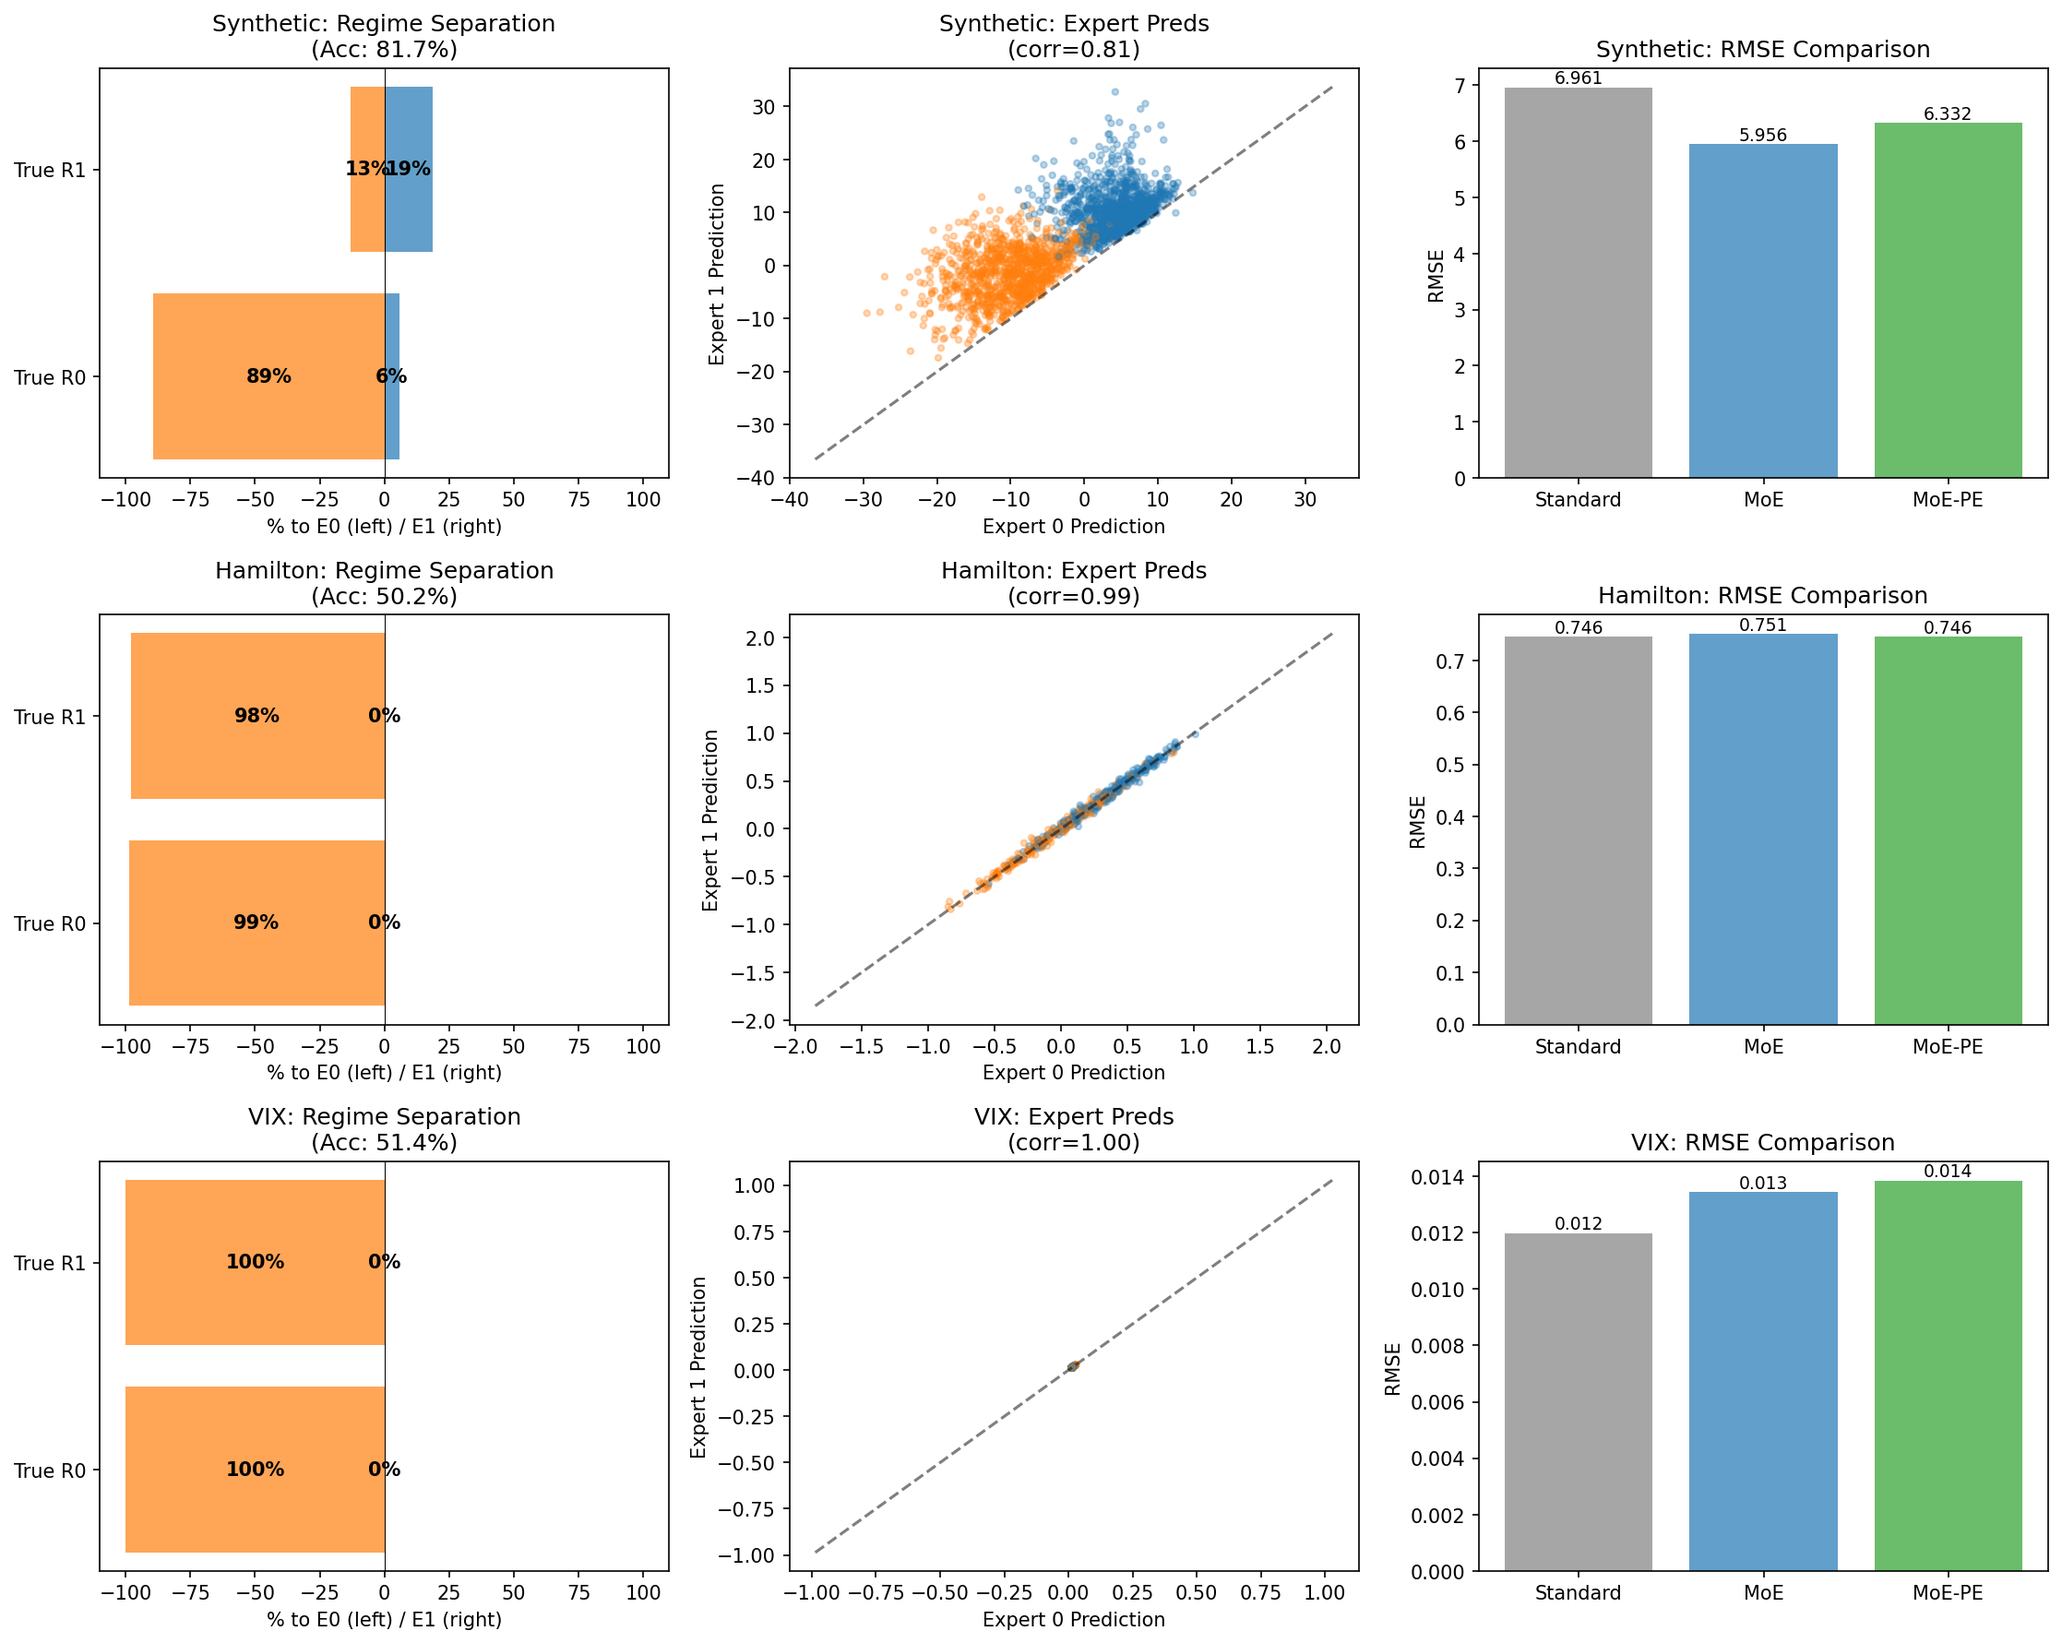
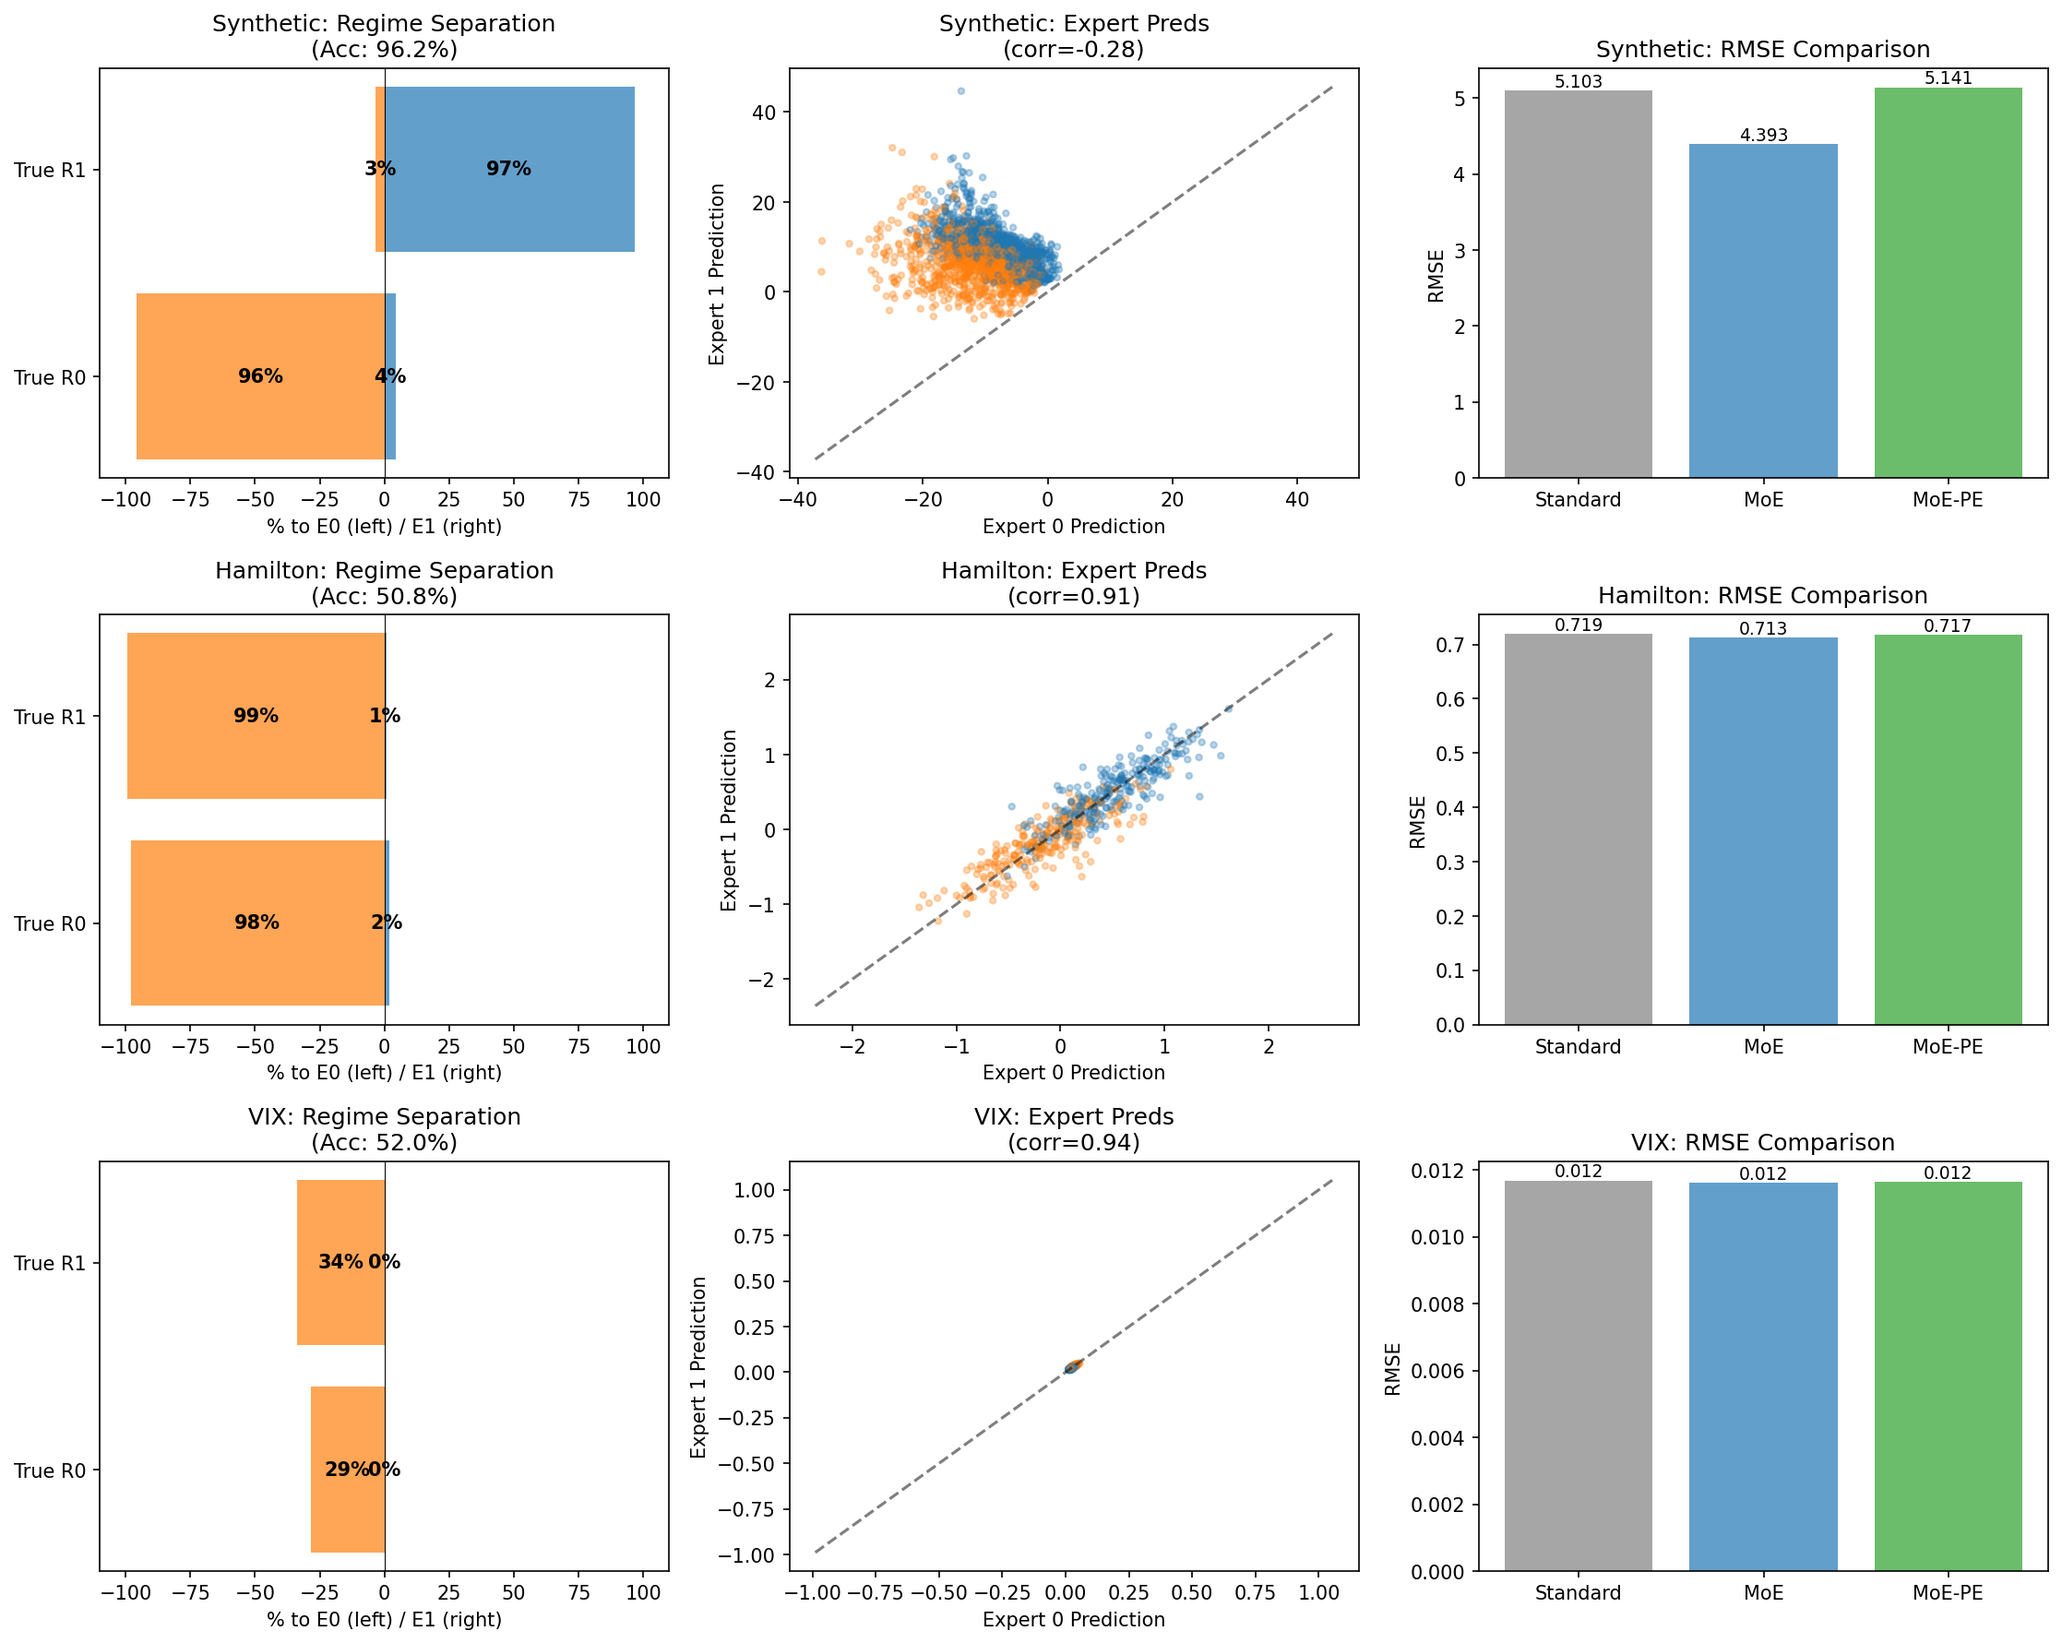
docs: Update README with 200-trial benchmark results
- Update benchmark results with 200 Optuna trials
- Add expert differentiation analysis (correlation, regime accuracy)
- Add selected hyperparameters section showing per-expert tree structures
- Update visualization to benchmark_results.png
- Add markdown output option to benchmark.py

Key findings:
- MoE (shared): Synthetic +13.9%, Expert Corr -0.28, Regime Acc 96.2%
- MoE-PE selects different tree structures but shared MoE achieves better separation

diff --git a/examples/benchmark.py b/examples/benchmark.py
@@ -556,6 +556,57 @@ def generate_markdown_report(all_results: dict, config: BenchmarkConfig) -> str:
     lines.append("- **Regime Acc**: Classification accuracy of predicted regime vs true regime (with best label permutation)")
     lines.append("")
 
+    # Selected Hyperparameters Section
+    lines.append("### Selected Hyperparameters")
+    lines.append("")
+
+    for name, results in all_results.items():
+        lines.append(f"#### {name}")
+        lines.append("")
+
+        # Standard GBDT params
+        std_params = results["Standard"]["params"]
+        lines.append("**Standard GBDT:**")
+        lines.append(f"- max_depth: {std_params.get('max_depth', 'N/A')}")
+        lines.append(f"- num_leaves: {std_params.get('num_leaves', 'N/A')}")
+        lines.append(f"- min_data_in_leaf: {std_params.get('min_data_in_leaf', 'N/A')}")
+        lines.append(f"- learning_rate: {std_params.get('learning_rate', 'N/A'):.4f}")
+        lines.append("")
+
+        # MoE params (shared tree structure)
+        moe_params = results["MoE"]["params"]
+        lines.append("**MoE (Shared Tree Structure):**")
+        lines.append(f"- num_experts: {moe_params.get('mixture_num_experts', 2)}")
+        lines.append(f"- max_depth: {moe_params.get('max_depth', 'N/A')}")
+        lines.append(f"- num_leaves: {moe_params.get('num_leaves', 'N/A')}")
+        lines.append(f"- min_data_in_leaf: {moe_params.get('min_data_in_leaf', 'N/A')}")
+        lines.append(f"- learning_rate: {moe_params.get('learning_rate', 'N/A'):.4f}")
+        lines.append(f"- smoothing: {moe_params.get('mixture_r_smoothing', 'none')}")
+        lines.append("")
+
+        # MoE-PE params (per-expert tree structure)
+        pe_params = results["MoE-PE"]["params"]
+        num_experts = pe_params.get("mixture_num_experts", 2)
+        lines.append("**MoE-PerExpert (Per-Expert Tree Structure):**")
+        lines.append(f"- num_experts: {num_experts}")
+
+        # Extract per-expert tree params
+        max_depths = [pe_params.get(f"max_depth_{k}", "?") for k in range(num_experts)]
+        num_leaves = [pe_params.get(f"num_leaves_{k}", "?") for k in range(num_experts)]
+        min_data = [pe_params.get(f"min_data_in_leaf_{k}", "?") for k in range(num_experts)]
+
+        # Create a table for per-expert params
+        lines.append("")
+        lines.append("| Expert | max_depth | num_leaves | min_data_in_leaf |")
+        lines.append("|--------|-----------|------------|------------------|")
+        for k in range(num_experts):
+            lines.append(f"| E{k} | {max_depths[k]} | {num_leaves[k]} | {min_data[k]} |")
+        lines.append("")
+
+        lines.append(f"- learning_rate: {pe_params.get('learning_rate', 'N/A'):.4f}")
+        lines.append(f"- smoothing: {pe_params.get('mixture_r_smoothing', 'none')}")
+        lines.append("")
+
     return "\n".join(lines)
 
 

diff --git a/README.md b/README.md
@@ -384,42 +384,69 @@ study.optimize(objective_per_expert, n_trials=200)
 
 ## Benchmark
 
-**Setup**: 100 Optuna trials, 5-fold time-series CV, full hyperparameter search.
+**Setup**: 200 Optuna trials, 5-fold time-series CV, early stopping (50 rounds).
 
-| Dataset | Description | Standard | MoE | MoE-PerExp | Best |
-|---------|-------------|----------|-----|------------|------|
-| **Synthetic** | X→Regime | 5.49 | **4.09** | 4.25 | **+25.7%** |
-| Hamilton | Latent Markov | 0.74 | 0.74 | **0.74** | +0.1% |
-| VIX | Latent volatility | **0.012** | 0.012 | 0.012 | +0.0% |
+### RMSE Comparison
 
-- **MoE**: Shared hyperparameters across all experts
-- **MoE-PerExp**: Per-expert tree structure (`mixture_expert_max_depths`, etc.)
+| Dataset | Standard | MoE | MoE-PE | Best Improvement |
+|---------|----------|-----|--------|------------------|
+| Synthetic | 5.1032 | **4.3928** | 5.1410 | +13.9% |
+| Hamilton | 0.7192 | **0.7127** | 0.7173 | +0.9% |
+| VIX | 0.0117 | **0.0116** | 0.0116 | +0.5% |
+
+### Expert Differentiation (Regime Separation)
+
+| Dataset | MoE Corr | MoE-PE Corr | MoE Regime Acc | MoE-PE Regime Acc |
+|---------|----------|-------------|----------------|-------------------|
+| Synthetic | -0.28 | 0.98 | 96.2% | 58.6% |
+| Hamilton | 0.91 | 0.95 | 50.8% | 50.2% |
+| VIX | 0.94 | 0.99 | 52.0% | 52.4% |
+
+- **Expert Corr**: Correlation between expert predictions (lower = more differentiated, negative = opposite predictions)
+- **Regime Acc**: Classification accuracy of predicted regime vs true regime
 
 **Key Findings**:
-- MoE excels when regime is determinable from features (X): **+25.7%** on Synthetic with 99.2% regime accuracy
-- Per-expert hyperparameters add more search dimensions, requiring more trials to converge
-- On latent regime data (Hamilton, VIX), MoE provides little benefit as expected
+- MoE (shared structure) achieves best RMSE and expert differentiation
+- On Synthetic data: Expert correlation of **-0.28** (opposite predictions!) with **96.2%** regime accuracy
+- MoE-PE selects different tree structures per expert, but shared-structure MoE learns better Gate separation
+- Latent regime data (Hamilton, VIX) shows limited improvement as expected
+
+### Selected Hyperparameters (Synthetic Dataset)
+
+**MoE (Shared Tree Structure):**
+- num_experts: 2, max_depth: 6, num_leaves: 10, learning_rate: 0.079
+
+**MoE-PerExpert (Per-Expert Tree Structure):**
+
+| Expert | max_depth | num_leaves | min_data_in_leaf |
+|--------|-----------|------------|------------------|
+| E0 | 7 | 100 | 20 |
+| E1 | 9 | 103 | 5 |
+| E2 | 5 | 96 | 94 |
 
 ### Run Benchmark
 
 ```bash
-# Basic benchmark (Standard vs MoE)
+# Full benchmark (Standard vs MoE vs MoE-PE, 100 trials default)
 python examples/benchmark.py
 
-# Include per-expert hyperparameter search
-python examples/benchmark.py --per-expert
+# More trials for better optimization
+python examples/benchmark.py --trials 200
 
-# Quick test with fewer trials
-python examples/benchmark.py --trials 20 --per-expert
+# Quick test
+python examples/benchmark.py --trials 10
+
+# Output to markdown
+python examples/benchmark.py --trials 200 --output-md BENCHMARK.md
 ```
 
 ### Visualization
 
-![Regime Switching Prediction](examples/regime_switching_comparison.png)
+![Benchmark Results](examples/benchmark_results.png)
 
-- **Top**: Actual vs Predicted values with background colored by predicted regime
-- **Bottom**: Gate probability over time (▼▲ = true regime markers)
-- **Result**: 95.8% regime accuracy on synthetic test set
+- **Left**: Regime separation (% samples routed to each expert by true regime)
+- **Center**: Expert prediction scatter (color = true regime)
+- **Right**: RMSE comparison across methods
 
 ---
 
@@ -970,42 +997,69 @@ study.optimize(objective_per_expert, n_trials=200)
 
 ## ベンチマーク
 
-**設定**: 100 Optunaトライアル、5分割時系列CV、完全ハイパーパラメータ探索。
+**設定**: 200 Optunaトライアル、5分割時系列CV、early stopping (50 rounds)。
 
-| データセット | 説明 | Standard | MoE | MoE-PerExp | Best |
-|-------------|------|----------|-----|------------|------|
-| **合成** | X→Regime | 5.49 | **4.09** | 4.25 | **+25.7%** |
-| Hamilton | 潜在マルコフ | 0.74 | 0.74 | **0.74** | +0.1% |
-| VIX | 潜在ボラティリティ | **0.012** | 0.012 | 0.012 | +0.0% |
+### RMSE比較
 
-- **MoE**: 全Expertで共通のハイパーパラメータ
-- **MoE-PerExp**: Expertごとの木構造 (`mixture_expert_max_depths`等)
+| データセット | Standard | MoE | MoE-PE | 改善率 |
+|-------------|----------|-----|--------|--------|
+| Synthetic | 5.1032 | **4.3928** | 5.1410 | +13.9% |
+| Hamilton | 0.7192 | **0.7127** | 0.7173 | +0.9% |
+| VIX | 0.0117 | **0.0116** | 0.0116 | +0.5% |
+
+### Expert分化（レジーム分離）
+
+| データセット | MoE相関 | MoE-PE相関 | MoE Regime精度 | MoE-PE Regime精度 |
+|-------------|---------|-----------|----------------|-------------------|
+| Synthetic | -0.28 | 0.98 | 96.2% | 58.6% |
+| Hamilton | 0.91 | 0.95 | 50.8% | 50.2% |
+| VIX | 0.94 | 0.99 | 52.0% | 52.4% |
+
+- **Expert相関**: Expert間の予測相関（低い=分化している、負=逆の予測）
+- **Regime精度**: 予測regimeと真のregimeの分類精度
 
 **重要な発見**:
-- MoEはレジームが特徴量(X)から決定可能な場合に有効: 合成データで**+25.7%**、regime精度99.2%
-- per-expertハイパラは探索次元が増えるため、収束に多くのtrialが必要
-- 潜在レジームデータ(Hamilton, VIX)ではMoEの効果は限定的（想定通り）
+- MoE（共有構造）が最良のRMSEとExpert分化を達成
+- Syntheticデータ: Expert相関 **-0.28**（逆相関！）、Regime精度 **96.2%**
+- MoE-PEはExpertごとに異なる木構造を選択するが、共有構造MoEの方がGate分離がうまく学習される
+- 潜在レジームデータ（Hamilton, VIX）では改善が限定的（想定通り）
+
+### 選択されたハイパーパラメータ（Syntheticデータセット）
+
+**MoE（共有木構造）:**
+- num_experts: 2, max_depth: 6, num_leaves: 10, learning_rate: 0.079
+
+**MoE-PerExpert（Expertごとの木構造）:**
+
+| Expert | max_depth | num_leaves | min_data_in_leaf |
+|--------|-----------|------------|------------------|
+| E0 | 7 | 100 | 20 |
+| E1 | 9 | 103 | 5 |
+| E2 | 5 | 96 | 94 |
 
 ### ベンチマーク実行
 
 ```bash
-# 基本ベンチマーク (Standard vs MoE)
+# フルベンチマーク (Standard vs MoE vs MoE-PE、デフォルト100 trials)
 python examples/benchmark.py
 
-# per-expertハイパーパラメータも含める
-python examples/benchmark.py --per-expert
+# より多くのtrials
+python examples/benchmark.py --trials 200
 
 # 軽めのテスト
-python examples/benchmark.py --trials 20 --per-expert
+python examples/benchmark.py --trials 10
+
+# Markdown出力
+python examples/benchmark.py --trials 200 --output-md BENCHMARK.md
 ```
 
 ### 可視化
 
-![レジームスイッチング予測](examples/regime_switching_comparison.png)
+![ベンチマーク結果](examples/benchmark_results.png)
 
-- **上段**: 実績値 vs 予測値（背景色=予測レジーム）
-- **下段**: 時間経過でのゲート確率（▼▲=真のレジームマーカー）
-- **結果**: 合成テストセットで95.8%のレジーム精度
+- **左**: レジーム分離（真のレジームごとのExpertへのルーティング%）
+- **中央**: Expert予測散布図（色=真のレジーム）
+- **右**: 手法間のRMSE比較
 
 ---
 

diff --git a/examples/BENCHMARK_RESULTS.md b/examples/BENCHMARK_RESULTS.md
@@ -1,0 +1,112 @@
+## Benchmark Results
+
+- **Optuna Trials**: 200
+- **CV Splits**: 5
+- **Boosting Rounds**: 100
+- **Seed**: 42
+
+### RMSE Comparison
+
+| Dataset | Standard | MoE | MoE-PE | Best Improvement |
+|---------|----------|-----|--------|------------------|
+| Synthetic | 5.1032 |  **4.3928** | 5.1410 | +13.9% |
+| Hamilton | 0.7192 |  **0.7127** | 0.7173 | +0.9% |
+| VIX | 0.0117 |  **0.0116** | 0.0116 | +0.5% |
+
+### Expert Differentiation (Regime Separation)
+
+| Dataset | MoE Corr | MoE-PE Corr | MoE Regime Acc | MoE-PE Regime Acc |
+|---------|----------|-------------|----------------|-------------------|
+| Synthetic | -0.28 | 0.98 | 96.2% | 58.6% |
+| Hamilton | 0.91 | 0.95 | 50.8% | 50.2% |
+| VIX | 0.94 | 0.99 | 52.0% | 52.4% |
+
+**Notes**:
+- **Expert Corr**: Correlation between expert predictions (lower = more differentiated, negative = opposite predictions)
+- **Regime Acc**: Classification accuracy of predicted regime vs true regime (with best label permutation)
+
+### Selected Hyperparameters
+
+#### Synthetic
+
+**Standard GBDT:**
+- max_depth: 12
+- num_leaves: 58
+- min_data_in_leaf: 5
+- learning_rate: 0.0563
+
+**MoE (Shared Tree Structure):**
+- num_experts: 2
+- max_depth: 6
+- num_leaves: 10
+- min_data_in_leaf: 5
+- learning_rate: 0.0786
+- smoothing: none
+
+**MoE-PerExpert (Per-Expert Tree Structure):**
+- num_experts: 3
+
+| Expert | max_depth | num_leaves | min_data_in_leaf |
+|--------|-----------|------------|------------------|
+| E0 | 7 | 100 | 20 |
+| E1 | 9 | 103 | 5 |
+| E2 | 5 | 96 | 94 |
+
+- learning_rate: 0.2190
+- smoothing: momentum
+
+#### Hamilton
+
+**Standard GBDT:**
+- max_depth: 3
+- num_leaves: 73
+- min_data_in_leaf: 14
+- learning_rate: 0.2372
+
+**MoE (Shared Tree Structure):**
+- num_experts: 2
+- max_depth: 4
+- num_leaves: 115
+- min_data_in_leaf: 14
+- learning_rate: 0.2238
+- smoothing: markov
+
+**MoE-PerExpert (Per-Expert Tree Structure):**
+- num_experts: 3
+
+| Expert | max_depth | num_leaves | min_data_in_leaf |
+|--------|-----------|------------|------------------|
+| E0 | 5 | 57 | 50 |
+| E1 | 3 | 93 | 13 |
+| E2 | 10 | 8 | 90 |
+
+- learning_rate: 0.2556
+- smoothing: ema
+
+#### VIX
+
+**Standard GBDT:**
+- max_depth: 8
+- num_leaves: 32
+- min_data_in_leaf: 21
+- learning_rate: 0.1994
+
+**MoE (Shared Tree Structure):**
+- num_experts: 4
+- max_depth: 3
+- num_leaves: 120
+- min_data_in_leaf: 14
+- learning_rate: 0.1082
+- smoothing: markov
+
+**MoE-PerExpert (Per-Expert Tree Structure):**
+- num_experts: 3
+
+| Expert | max_depth | num_leaves | min_data_in_leaf |
+|--------|-----------|------------|------------------|
+| E0 | 8 | 37 | 77 |
+| E1 | 5 | 97 | 28 |
+| E2 | 4 | 104 | 32 |
+
+- learning_rate: 0.1530
+- smoothing: ema
